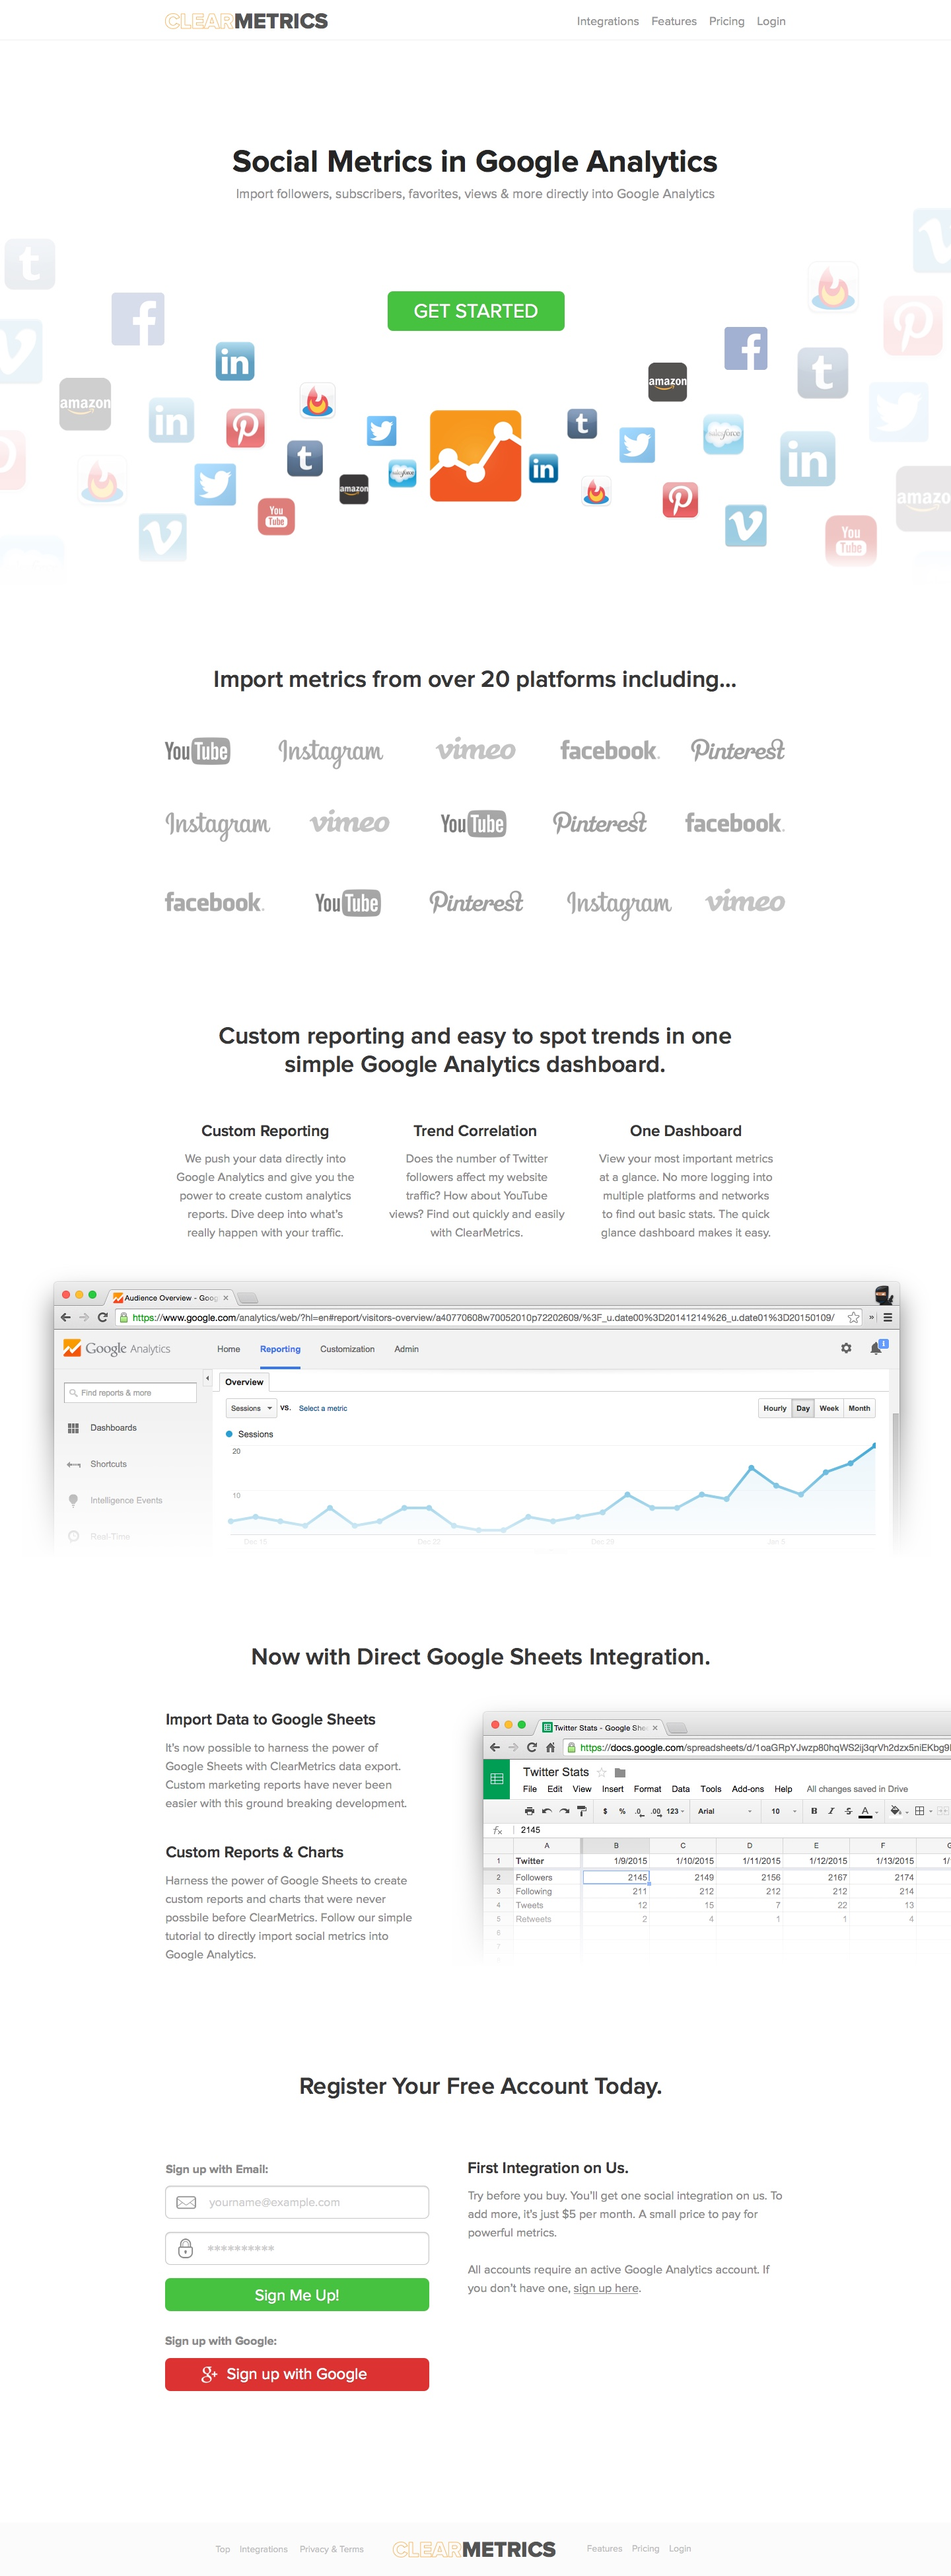
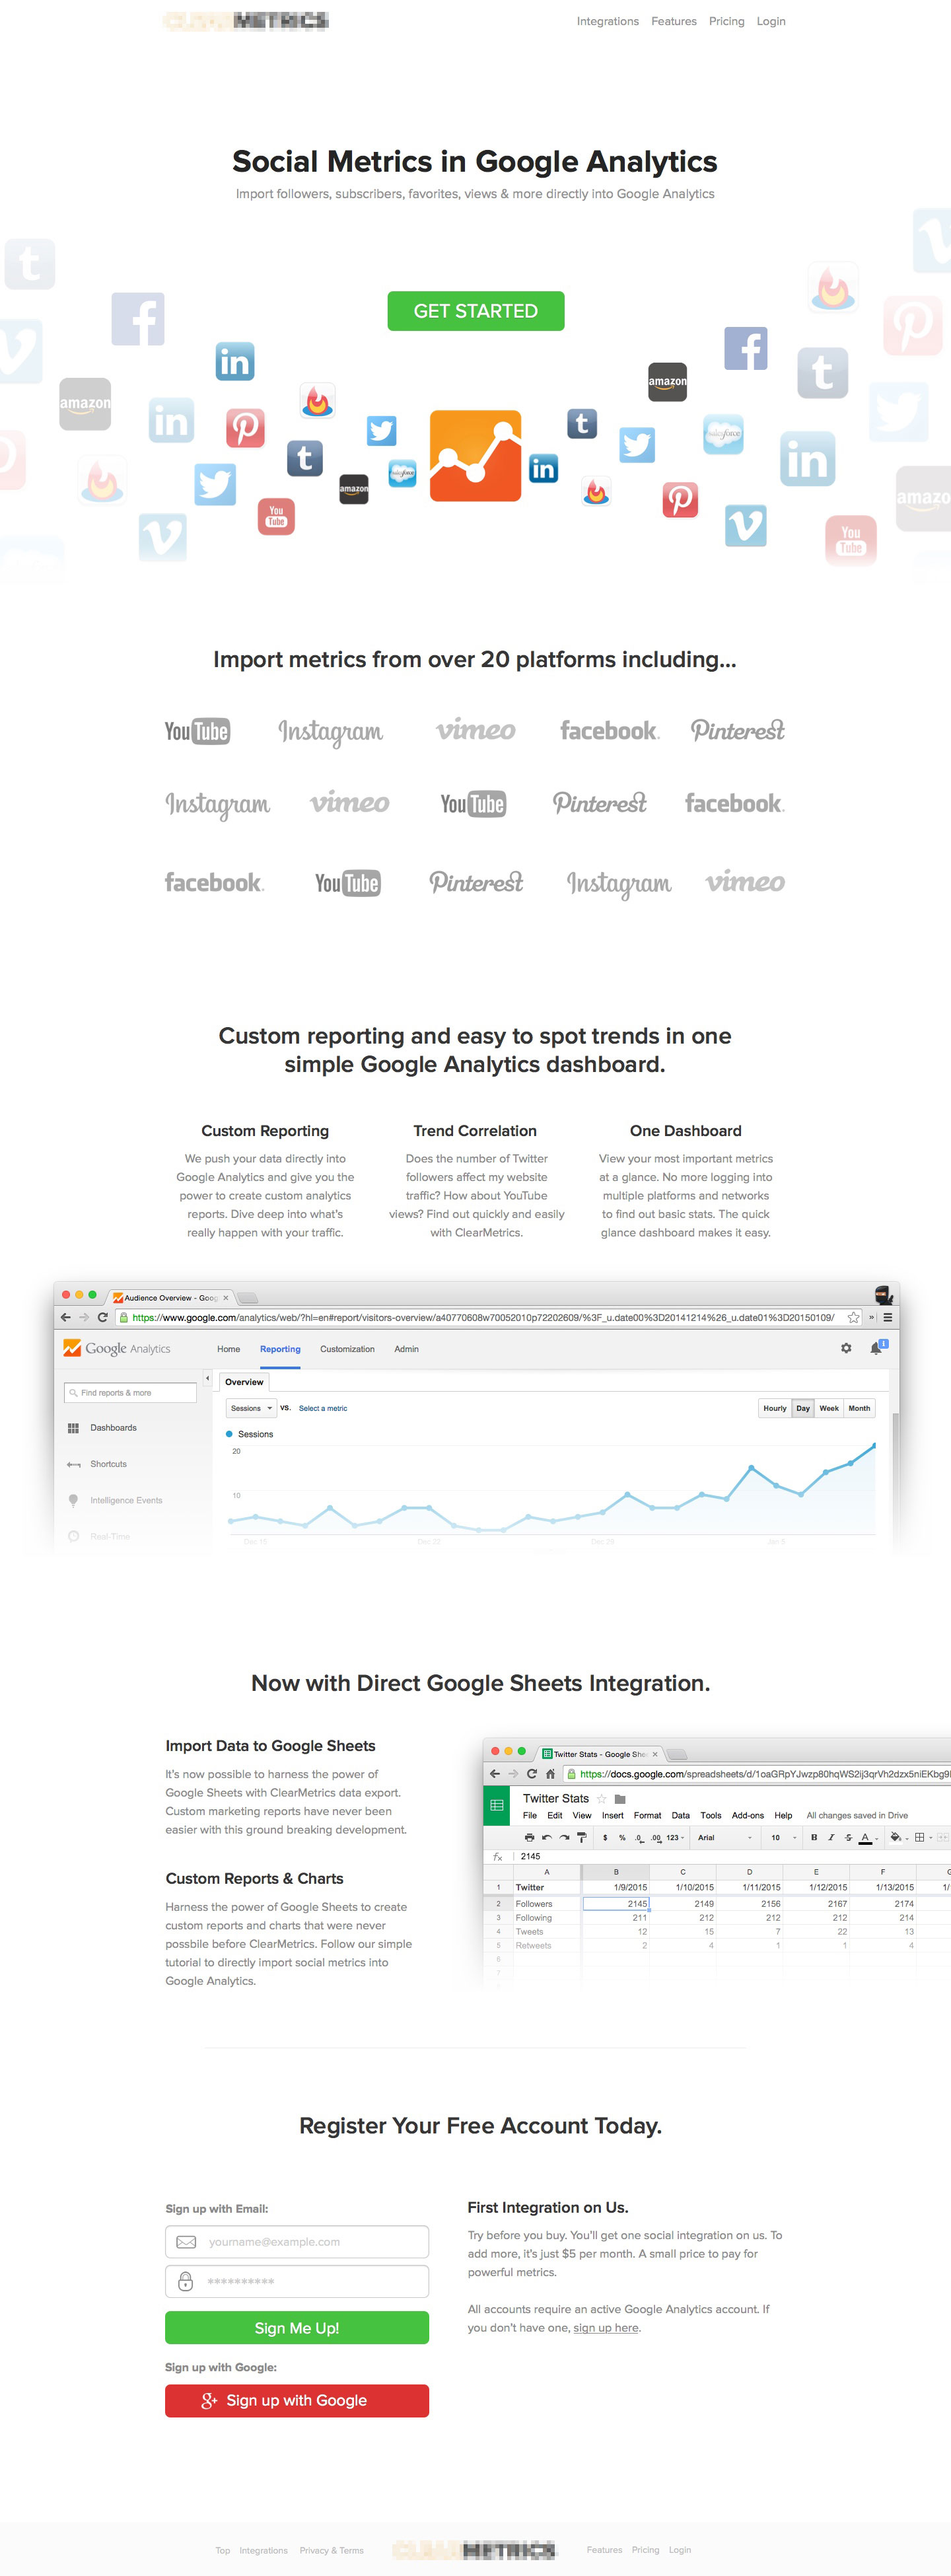
post on clearmetrics design

diff --git a/_posts/2015-01-17-clear-metrics.md b/_posts/2015-01-17-clear-metrics.md
@@ -1,0 +1,18 @@
+---
+layout: post
+title: ClearMetrics.io Design
+subtitle: Automatically import social metrics into Google Analytics
+tags: [startup, web design, node, javascript]
+---
+
+A couple of months ago, I found the need to import my social media metrics directly into Google Analytics. Turns out, there aren't any services to do so; atleast none that I could find. Yes there are many services that aggregate data, just not directly into Google Analytics. So, ClearMetrics.io was born.
+
+The plan is to build out the back-end over the next couple weeks using Node and MongoDB, while designing the front-end UX with Backbone and possibly React (moving away from AngularJS for the time being). The exact SOA isn't complete yet, but I should have something finalized early this coming week. More on that soon. 
+
+Since there were zero restrictions on the design, I figured this was a great chance to try out Sketch from [Bohemian Coding](http://bohemiancoding.com/sketch/). Turns out, Sketch is fantastic when it comes to vector based web design. Zooming and font rendering can be a little buggy, but in my opinion, totally worth the relatively small investment. If you're just getting started in web design and feel overwhelmed in Photoshop, definately check out Sketch.
+
+Without further ado...
+
+![ClearMetrics.io Mock-up](/images/clearMetrics_homepage_md.jpg)
+
+PS. Haven't worked out a logo yet, hence the blurring.
